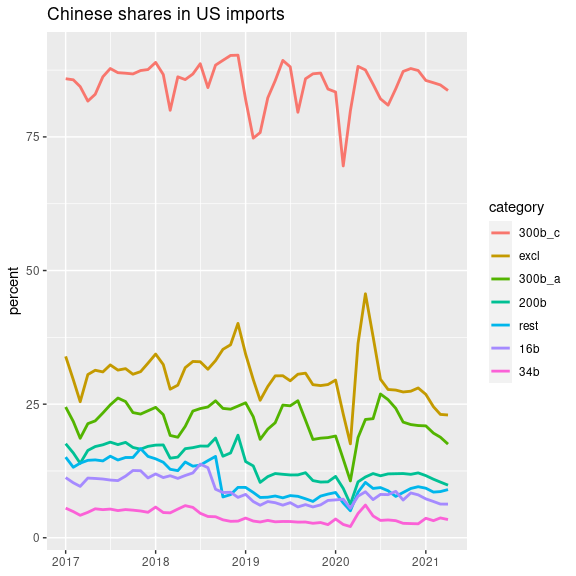
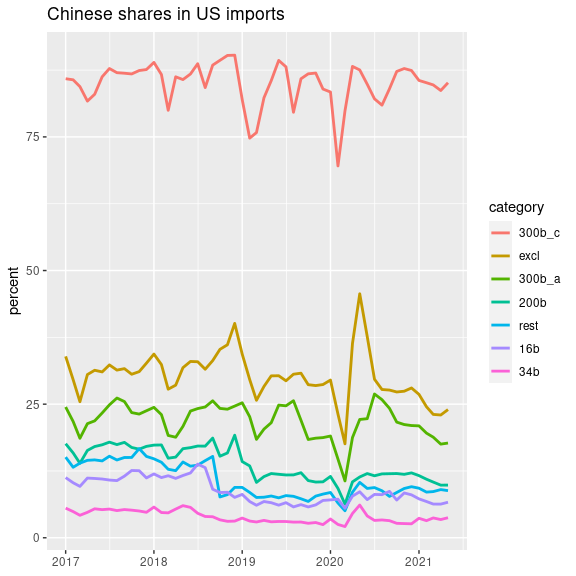
update May 2021 trade

diff --git a/README.md b/README.md
@@ -14,7 +14,7 @@ Mitsuo Shiota
 -   [Look at the Chinese share
     movements](#look-at-the-chinese-share-movements)
 
-Updated: 2021-06-09
+Updated: 2021-07-05
 
 I separated the codes of extracting HTS from USTR site to [another
 page](Extract-hts-from-USTR.md).
